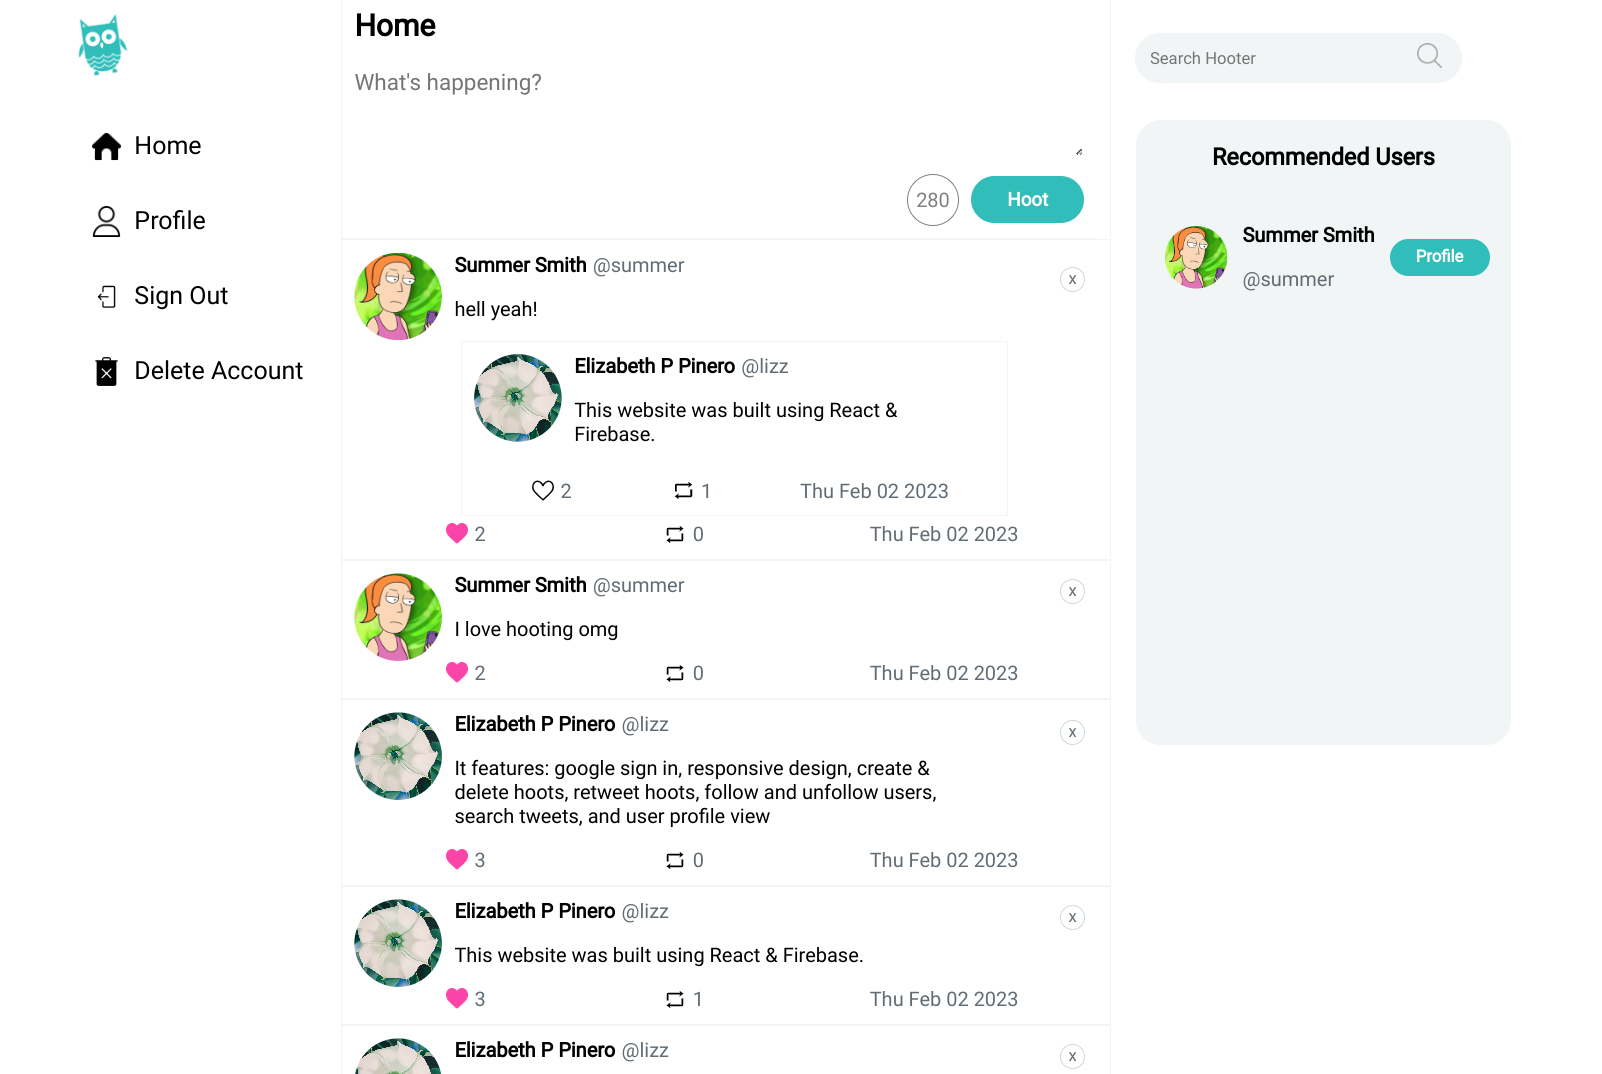
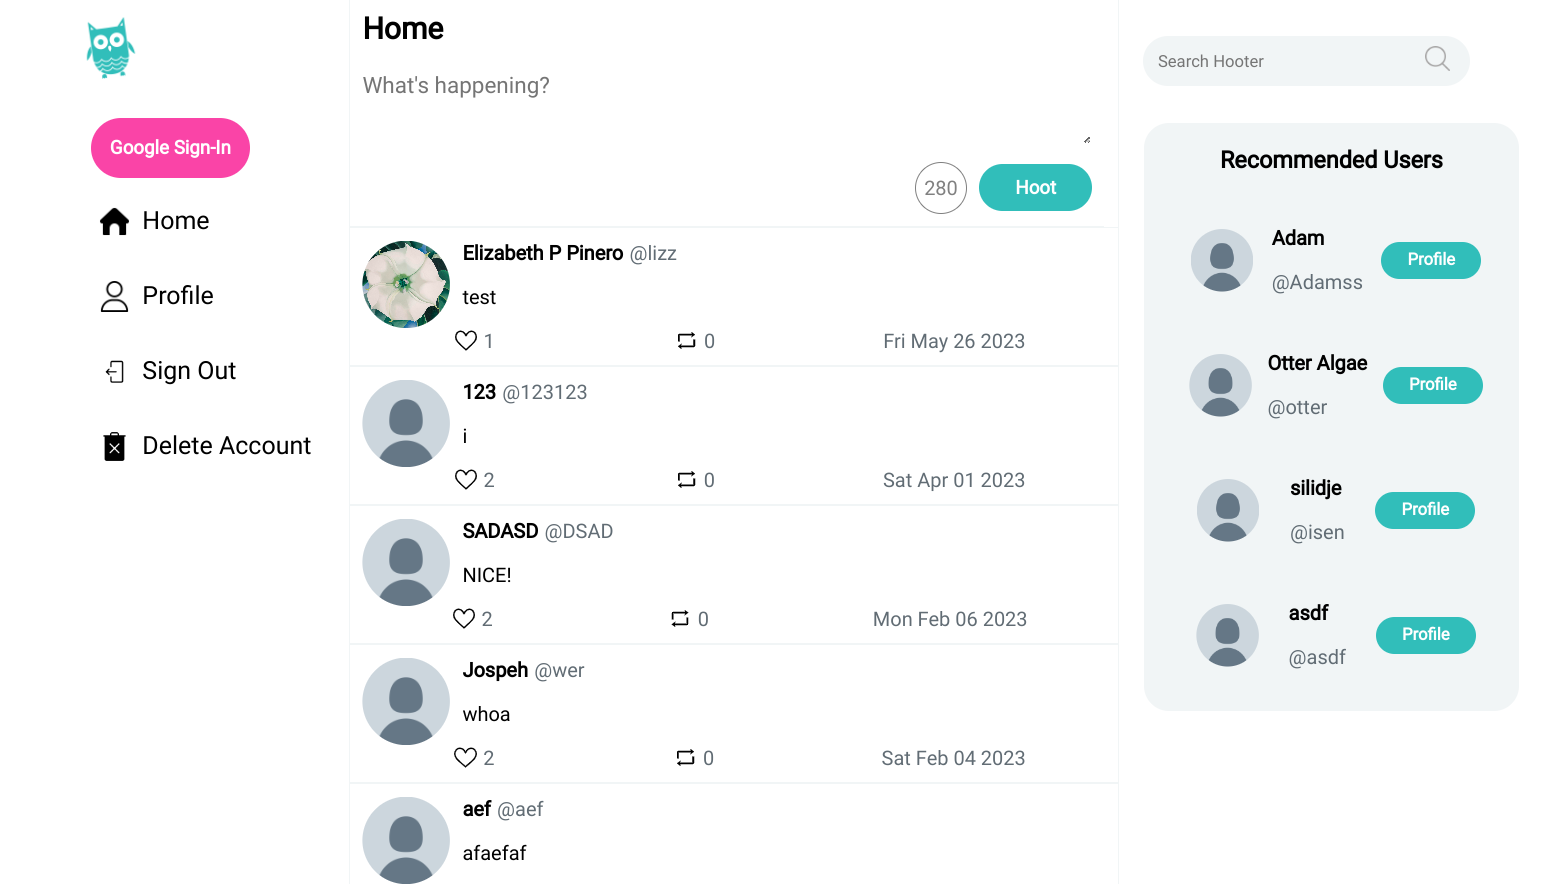
Replaced dashboard screenshot

diff --git a/src/styles/App.css b/src/styles/App.css
@@ -11,70 +11,6 @@
 body {
     margin: 0;
 }
-/* SIGN IN PAGE */
-#sign-in-container {
-    position: relative;
-    height: 100vh;
-    width: 100vw;
-    display: flex;
-    flex-direction: column;
-    justify-content: center;
-    align-items: center;
-    background-color: var(--grey);
-}
-#sign-in-container footer {
-    position: absolute;
-    top: 90%;
-}
-#sign-in-box {
-    height: 420px;
-    width: 35vw;
-    min-width: 300px;
-    border: 1px solid var(--grey);
-    display: flex;
-    flex-direction: column;
-    justify-content: center;
-    padding: 10px;
-    align-items: center;
-    background-color: var(--grey);
-    border-radius: 20px;
-    box-shadow: var(--box-shadow);
-}
-#sign-in-logo {
-    height: 15vh;
-    width: calc(15vh / 1);
-    display: flex;
-}
-#heading-btn {
-    display: flex;
-    flex-direction: column;
-    justify-content: space-between;
-    align-items: center;
-    height: 45%;
-    width: 100%;
-}
-.sign-in-heading {
-    text-align: center;
-    color: var(--font-grey);
-    font-size: 2.5rem;
-}
-#sign-in {
-    border: none;
-    background-color: var(--hooter-blue);
-    height: 50px;
-    width: 35%;
-    border-radius: 30px;
-    font-size: 1rem;
-    font-weight: bold;
-    color: white;
-    min-width: 120px;
-    box-shadow: var(--box-shadow);
-    transition: var(--transition);
-}
-#sign-in:hover {
-    cursor: pointer; 
-    transform: scale(1.1);
-}
 #sign-up {
     position: fixed;
     display: flex;

diff --git a/src/components/Menu_and_Aside/Menu.js b/src/components/Menu_and_Aside/Menu.js
@@ -7,7 +7,6 @@ import home from '../../images/home-black.png'
 import SignOut from './SignOut';
 import DeleteAccount from './DeleteAccount';
 import { useContext, useEffect, useState } from 'react';
-import SignInPopup from '../Dashboard/SignInPopup';
 import GoogleSignIn from './GoogleSignIn';
 import { addUser, usersSelector } from '../../redux/allUsersSlice';
 import useAuth from '../customHooks/useAuth';
@@ -38,8 +37,7 @@ export default function Menu() {
     const [showEditInfo, setShowEditInfo] = useState(false);
     const [userUpdated, setUserUpdated] = useState(false);
 
-    const { showPopup, setShowPopup } = useContext(ShowSignInPopupContext);
-
+    const { setShowPopup } = useContext(ShowSignInPopupContext);
 
     useGetUsersFromDatabase();
 
